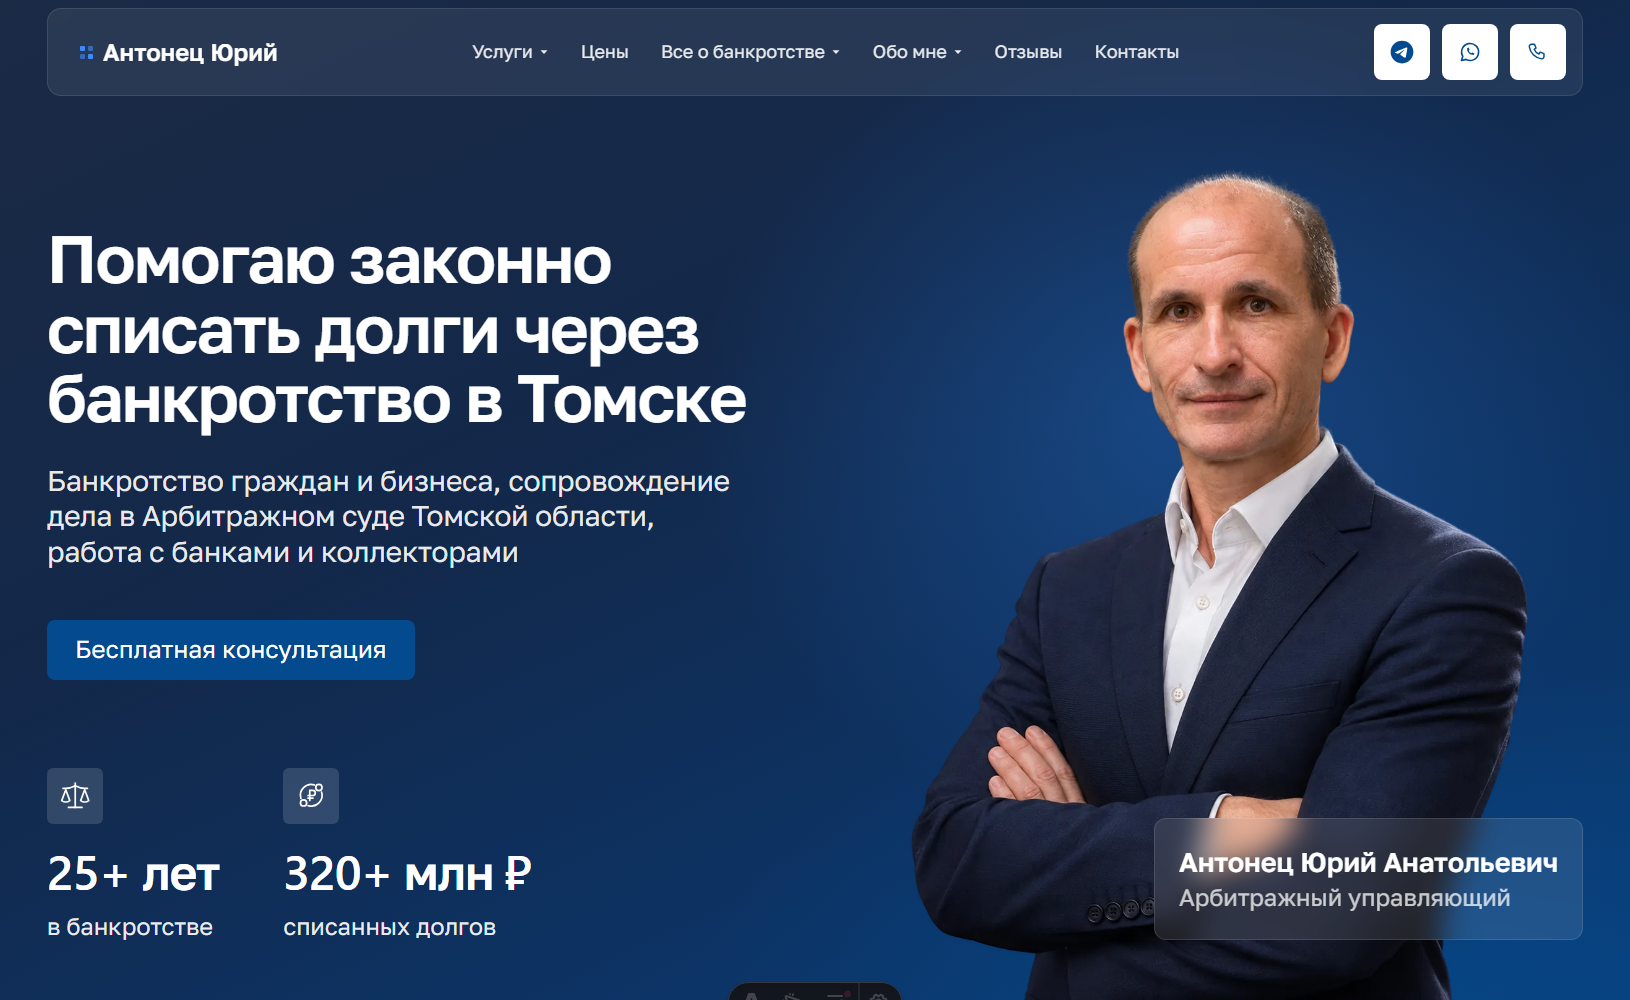
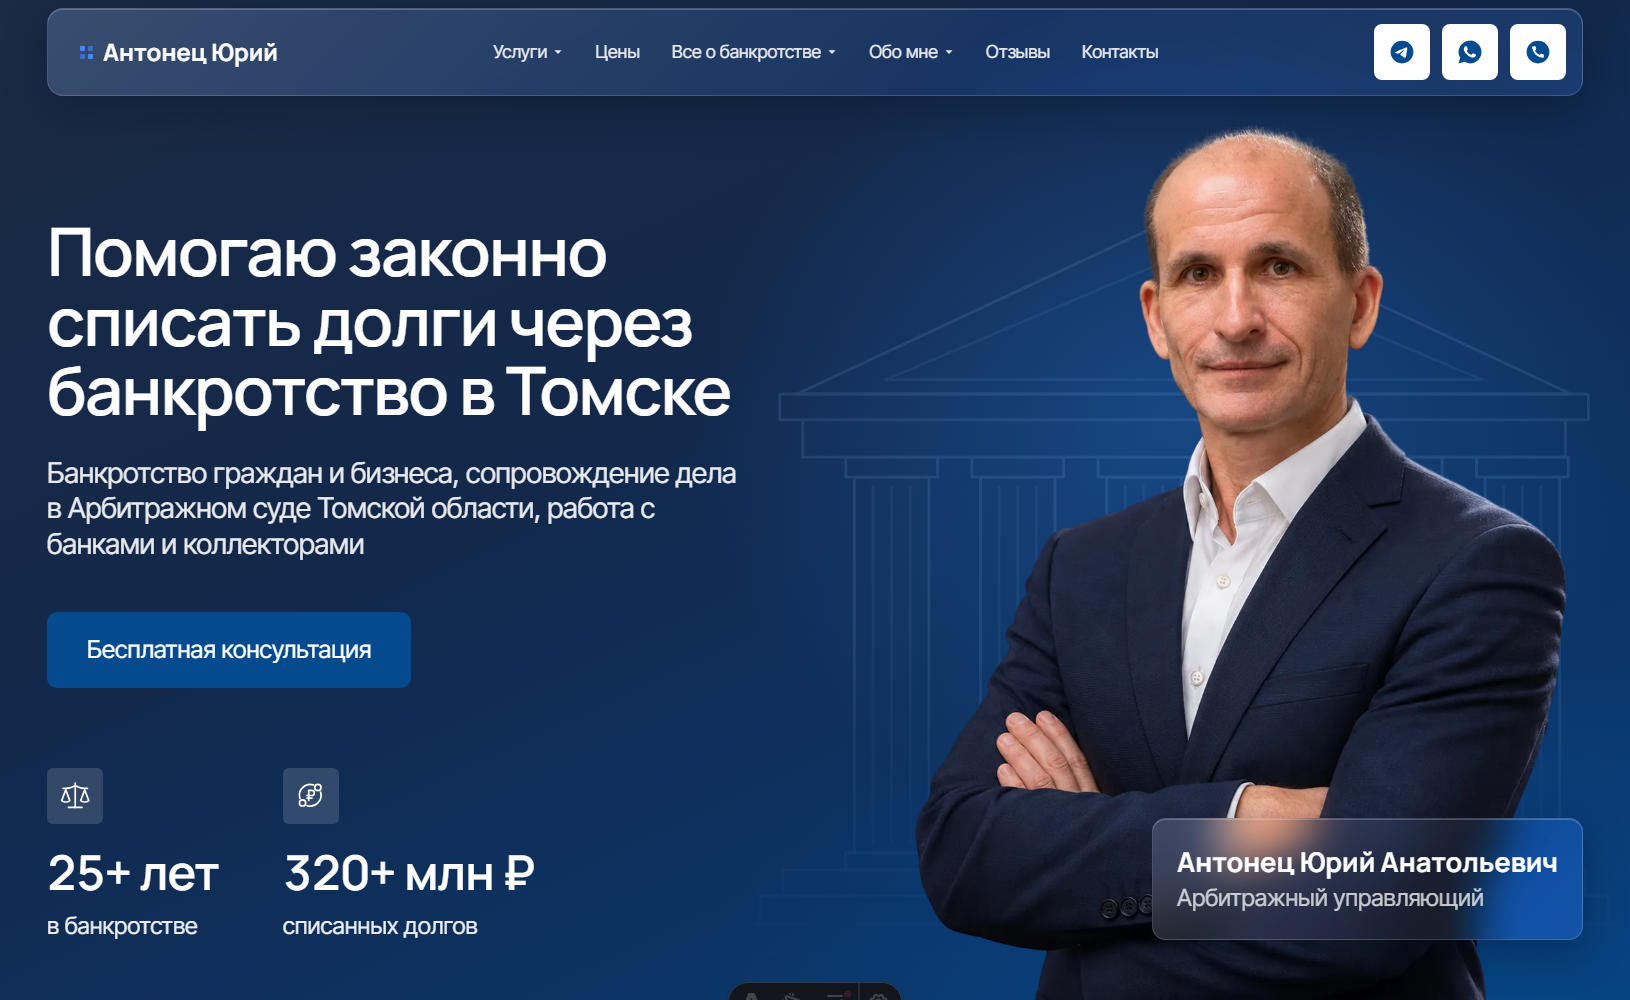
Первый экран: фон с Арбитражным судом Томской области, компактные цифры, крупнее фото, без висячих предлогов

diff --git a/src/data/typo.ts b/src/data/typo.ts
@@ -1,0 +1,15 @@
+/**
+ * Неразрывный пробел после коротких предлогов, союзов и частиц,
+ * чтобы они не висели в конце строки: «работа с банками» → «работа с&nbsp;банками».
+ */
+const re = /(^|[\s («])(в|во|с|со|и|к|ко|о|об|обо|у|а|но|на|по|за|от|до|из|не|ни|для|при|без|под|над|или|что)\s+/gi;
+
+export const nb = (text: string) => {
+  let prev = '';
+  let s = text;
+  while (prev !== s) {
+    prev = s;
+    s = s.replace(re, (_, a: string, w: string) => `${a}${w} `);
+  }
+  return s;
+};

diff --git a/seo/decisions.md b/seo/decisions.md
@@ -21,3 +21,4 @@
 | 16.11.2026 | Карта сайта v2 по топ-10 Яндекса (`research/07-sitemap-v2.md`); ИП — только в «Гражданам» (по закону ИП — гражданин) | Анализ меню 8 конкурентов | ИП в «Бизнесу» | высокая |
 | 16.11.2026 | Первый экран главной перенесён из макета в код: `src/components/HomeHero.astro` (своя шапка, `Base hideHeader`), портрет — сгенерированный по фото Антонца (`design/portrait/antonets-studio-b`), цифры в `heroStats` (site.ts) | Запрос дизайнера; остальные блоки главной и другие страницы пока в старом оформлении | — | средняя: «320+ млн ₽» и портрет ждут подтверждения Антонца |
 | 16.11.2026 | Шрифты сайта: Manrope (заголовки) + Inter Tight (текст) вместо Literata + Golos; за портретом на первом экране — полупрозрачный контур портика суда (SVG) | Решение дизайнера | — | высокая |
+| 17.11.2026 | Фон первого экрана — здание Арбитражного суда Томской области (фасад анфас, сгенерировано по мотивам, монохром, `src/assets/court-bg-a.png`); цифры компактнее, фото крупнее с обрезкой снизу; неразрывные пробелы после коротких слов (`src/data/typo.ts`) | Выбор дизайнера из 6 вариантов (design/court/) | Линейная графика, скетч, акварель, ракурс снизу | высокая |
